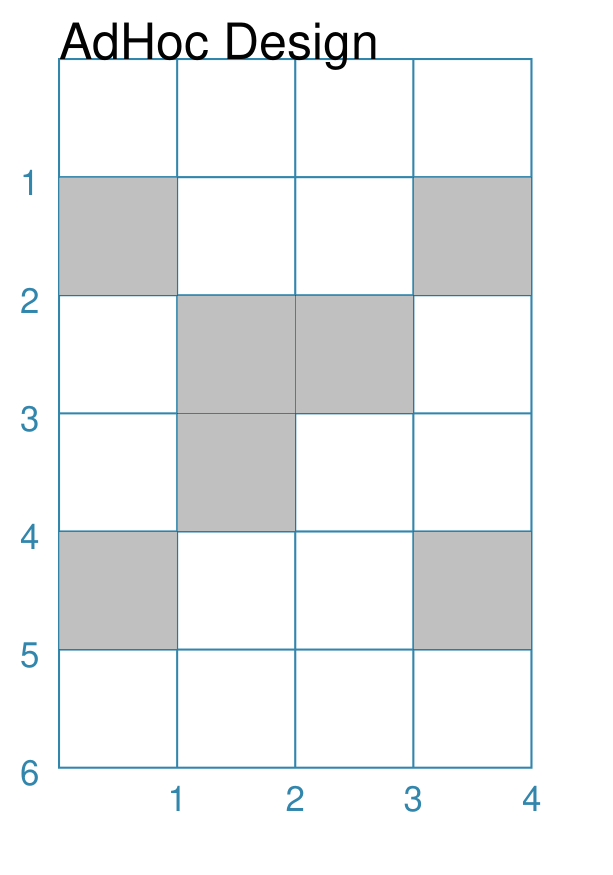
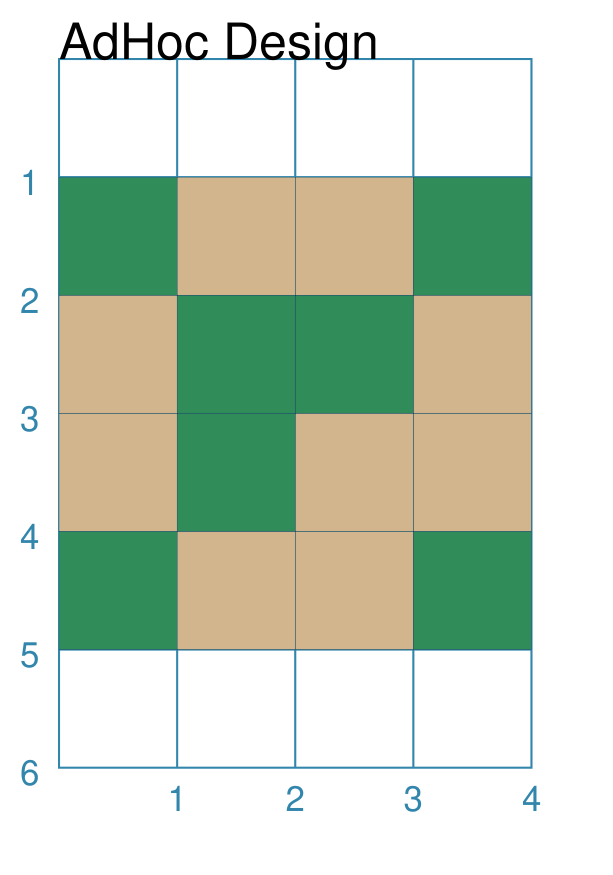
Updated polyomino example to show blank fill property.

diff --git a/examples/objects/polyominoes.py b/examples/objects/polyominoes.py
@@ -94,7 +94,9 @@ Text(common=header, text="AdHoc Design")
 Polyomino(
     x=0, y=1,
     pattern=['1001', '0110', '0100', '1001'],
-    fill="silver")
+    fill="seagreen",
+    blank_fill="tan",
+)
 
 Save(
     output='png',

diff --git a/docs/source/polyominoes.rst b/docs/source/polyominoes.rst
@@ -50,6 +50,7 @@ a Polyomino can also be customised with the following properties:
 - **outline** - along with **outline_stroke** and **outline_stroke_width**
   is used to draw a line around the boundary of all connected squares in
   the pattern |dash| it cannot be used in conjunction with a non-zero *gap*
+- **blank_fill** - non-used squares can have a different fill color
 - **fills** - each square can be associated with a different fill color
 - **strokes** - each square can be associated with a different stroke color
 - **labels** - each square can be linked to a different label
@@ -367,14 +368,21 @@ Polyomino: Adhoc Design
 
          Polyomino(
              x=0, y=1,
-             fill="silver",
+             fill="seagreen",
+             blank_fill="tan",
              pattern=[
                  '1001', '0110', '0100', '1001'])
 
-      In this example, the pattern is constructed in such a way that the
-      squares comprising it are not all adjacent to another square.
+      In this example, the pattern |dash| made up of the green squares |dash|
+      is constructed in such a way that the squares comprising it are not
+      all adjacent to another square.
 
       Technically, this is **not** a Polyomino but can provide a useful way
       to construct a pattern made up of squares in an arbitrary layout.
+
+      This example shows how to color in "blank" areas that are **not**
+      filled in by the Polyomino i.e. those marked with ``0``. For an
+      example of their usage, see the "Attaxx" section of the script for
+      :ref:`New Classic Games <new-classic-games>`.
 
 ===== ======

diff --git a/docs/source/examples/abstract.rst b/docs/source/examples/abstract.rst
@@ -405,6 +405,7 @@ Screenshot  .. image:: images/boards/abstract/meridians.png
                :width: 90%
 =========== ==================================================================
 
+.. _new-classic-games:
 
 New Classic Games
 =================
